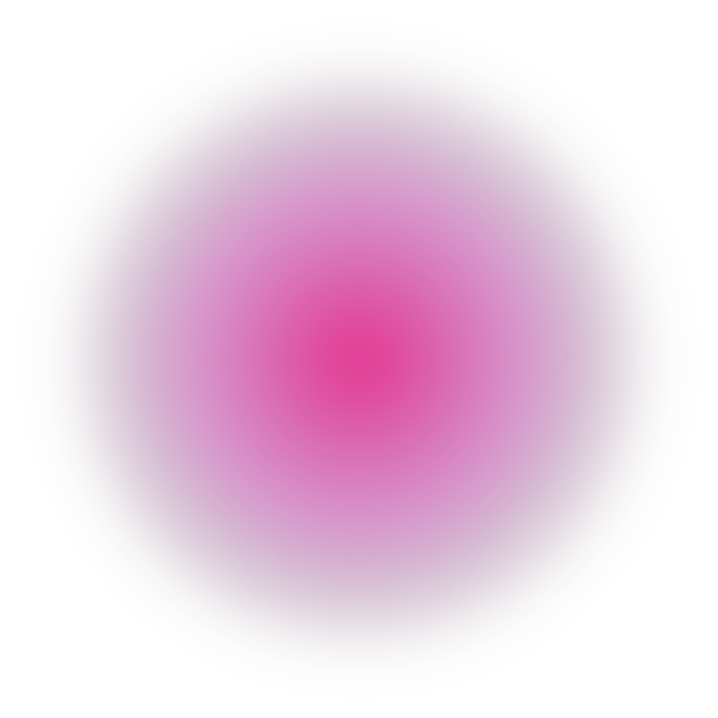
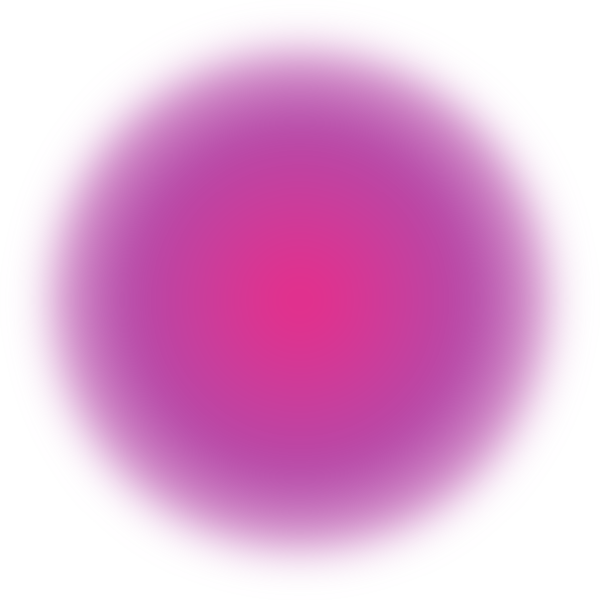
Add basic zones

diff --git a/core/src/main/java/cellcorp/gameofcells/objects/ZoneManager.java b/core/src/main/java/cellcorp/gameofcells/objects/ZoneManager.java
@@ -1,14 +1,11 @@
 package cellcorp.gameofcells.objects;
 
+import cellcorp.gameofcells.AssetFileNames;
 import com.badlogic.gdx.assets.AssetManager;
 import com.badlogic.gdx.graphics.g2d.SpriteBatch;
 import com.badlogic.gdx.graphics.glutils.ShapeRenderer;
-import com.badlogic.gdx.math.MathUtils;
 
-import java.util.Comparator;
-import java.util.HashMap;
-import java.util.Map;
-import java.util.Optional;
+import java.util.*;
 
 /**
  * Manages acid and basic zones.
@@ -19,15 +16,18 @@ import java.util.Optional;
 public class ZoneManager {
 
     private static final double ACID_ZONE_SPAWN_CHANCE = 0.33;
+    private static final double BASIC_ZONE_SPAWN_CHANCE = 0.33;
 
     private final AssetManager assetManager;
     private final Cell cell;
     private final RandomFromHash random;
 
+
     /**
      * Stored as a set of chunks, for easy despawning.
      */
     private final Map<Chunk, AcidZone> acidZones = new HashMap<>();
+    private final Map<Chunk, AcidZone> basicZones = new HashMap<>();
 
     private float timer = 0f;
     private float damageCounter = 0f;
@@ -84,8 +84,8 @@ public class ZoneManager {
         return x * x * (3.0f - 2.0f * x);
     }
 
-
     public void draw(SpriteBatch spriteBatch, ShapeRenderer shapeRenderer) {
+        drawBasicZones(spriteBatch, shapeRenderer);
         drawAcidZones(spriteBatch, shapeRenderer);
     }
 
@@ -95,13 +95,22 @@ public class ZoneManager {
         }
     }
 
+    private void drawBasicZones(SpriteBatch spriteBatch, ShapeRenderer shapeRenderer) {
+        for (var zone : basicZones.values()) {
+            zone.draw(spriteBatch, shapeRenderer);
+        }
+    }
+
     /**
      * Spawn zones outside the range of chunks `Chunk(row0, col0) .. Chunk(row1, col1)`
      */
     public void spawnInRange(int row0, int col0, int row1, int col1) {
+
         for (int row = row0; row < row1; row++) {
             for (int col = col0; col < col1; col++) {
-                spawnAcidZone(new Chunk(row, col));
+                var chunk = new Chunk(row, col);
+                spawnZone(acidZones, ACID_ZONE_SPAWN_CHANCE, AssetFileNames.ACID_ZONE, 2, chunk);
+                spawnZone(basicZones, BASIC_ZONE_SPAWN_CHANCE, AssetFileNames.BASIC_ZONE, 3, chunk);
             }
         }
     }
@@ -111,20 +120,20 @@ public class ZoneManager {
      * and spawns it.
      * Zones will not spawn too close to the center of other zones.
      */
-    public void spawnAcidZone(Chunk chunk) {
-        if (acidZones.containsKey(chunk)) {
+    public void spawnZone(Map<Chunk, AcidZone> zoneMap, double spawnChance, String texturePath, int seed, Chunk chunk) {
+        if (zoneMap.containsKey(chunk)) {
             return;
         }
 
         var randomValue = random.floatFrom(chunk.hashCode());
-        if (randomValue < ACID_ZONE_SPAWN_CHANCE) {
+        if (randomValue < spawnChance) {
             var rect = chunk.toRectangle();
 
-            float randX = random.floatFrom(chunk.hashCode() * 2);
+            float randX = random.floatFrom(chunk.hashCode() * seed * 2);
             float x = rect.x + randX * Chunk.CHUNK_LENGTH;
-            float randY = random.floatFrom(chunk.hashCode() * 3);
+            float randY = random.floatFrom(chunk.hashCode() * seed * 3);
             float y = rect.y + randY * Chunk.CHUNK_LENGTH;
-            acidZones.put(chunk, new AcidZone(assetManager, x, y));
+            zoneMap.put(chunk, new AcidZone(assetManager, texturePath, x, y));
         }
     }
 

diff --git a/core/src/main/java/cellcorp/gameofcells/objects/AcidZone.java b/core/src/main/java/cellcorp/gameofcells/objects/AcidZone.java
@@ -14,15 +14,17 @@ public final class AcidZone {
     public static final float ACID_ZONE_RADIUS = 400;
     public static final float ACID_ZONE_MAX_DAMAGE_PER_SECOND = 10;
     public static final float ACID_ZONE_DAMAGE_INCREMENT_SECONDS = 0.5f;
-    private static final float ACID_ZONE_TEXTURE_RADIUS = 600;
+    private static final float ACID_ZONE_TEXTURE_RADIUS = 500;
 
     private final AssetManager assetManager;
+    private final String texturePath;
 
     private final float x;
     private final float y;
 
-    public AcidZone(AssetManager assetManager, float x, float y) {
+    public AcidZone(AssetManager assetManager, String texturePath, float x, float y) {
         this.assetManager = assetManager;
+        this.texturePath = texturePath;
         this.x = x;
         this.y = y;
     }
@@ -36,7 +38,7 @@ public final class AcidZone {
     }
 
     public void draw(SpriteBatch spriteBatch, ShapeRenderer shapeRenderer) {
-        var texture = assetManager.get(AssetFileNames.ACID_ZONE, Texture.class);
+        var texture = assetManager.get(texturePath, Texture.class);
         float bottomLeftX = x - ACID_ZONE_TEXTURE_RADIUS;
         float bottomLeftY = y - ACID_ZONE_TEXTURE_RADIUS;
         float diameter = ACID_ZONE_TEXTURE_RADIUS * 2;

diff --git a/core/src/main/java/cellcorp/gameofcells/screens/GamePlayScreen.java b/core/src/main/java/cellcorp/gameofcells/screens/GamePlayScreen.java
@@ -340,9 +340,8 @@ public class GamePlayScreen implements GameOfCellsScreen {
         shapeRenderer.setProjectionMatrix(camera.combined);
         batch.setProjectionMatrix(camera.combined);
 
-        zoneManager.draw(batch, shapeRenderer);
         drawBackground(shapeRenderer);
-        drawGameObjects(batch);
+        drawGameObjects(batch, shapeRenderer);
         hud.draw(viewport);
 
         if (DEBUG_DRAW_ENABLED) {
@@ -425,7 +424,8 @@ public class GamePlayScreen implements GameOfCellsScreen {
         shapeRenderer.setColor(callerColor);
     }
 
-    private void drawGameObjects(SpriteBatch batch) {
+    private void drawGameObjects(SpriteBatch batch, ShapeRenderer shapeRenderer) {
+        zoneManager.draw(batch, shapeRenderer);
         batch.begin();
         glucoseManager.draw(batch);
         cell.draw(batch);

diff --git a/core/src/main/java/cellcorp/gameofcells/Main.java b/core/src/main/java/cellcorp/gameofcells/Main.java
@@ -143,6 +143,7 @@ public class Main implements ApplicationListener {
         assetManager.load(AssetFileNames.MITOCHONDRIA_ICON, Texture.class);
         assetManager.load(AssetFileNames.WHITE_PIXEL, Texture.class);
         assetManager.load(AssetFileNames.ACID_ZONE, Texture.class);
+        assetManager.load(AssetFileNames.BASIC_ZONE, Texture.class);
         assetManager.finishLoading();
 
         // May need to set to gameScreenManager at somepoint.

diff --git a/core/src/main/java/cellcorp/gameofcells/AssetFileNames.java b/core/src/main/java/cellcorp/gameofcells/AssetFileNames.java
@@ -63,4 +63,5 @@ public class AssetFileNames {
      * The file name for the acid zone gradient.
      */
     public static String ACID_ZONE = "acid_zone.png";
+    public static String BASIC_ZONE = "basic_zone.png";
 }
